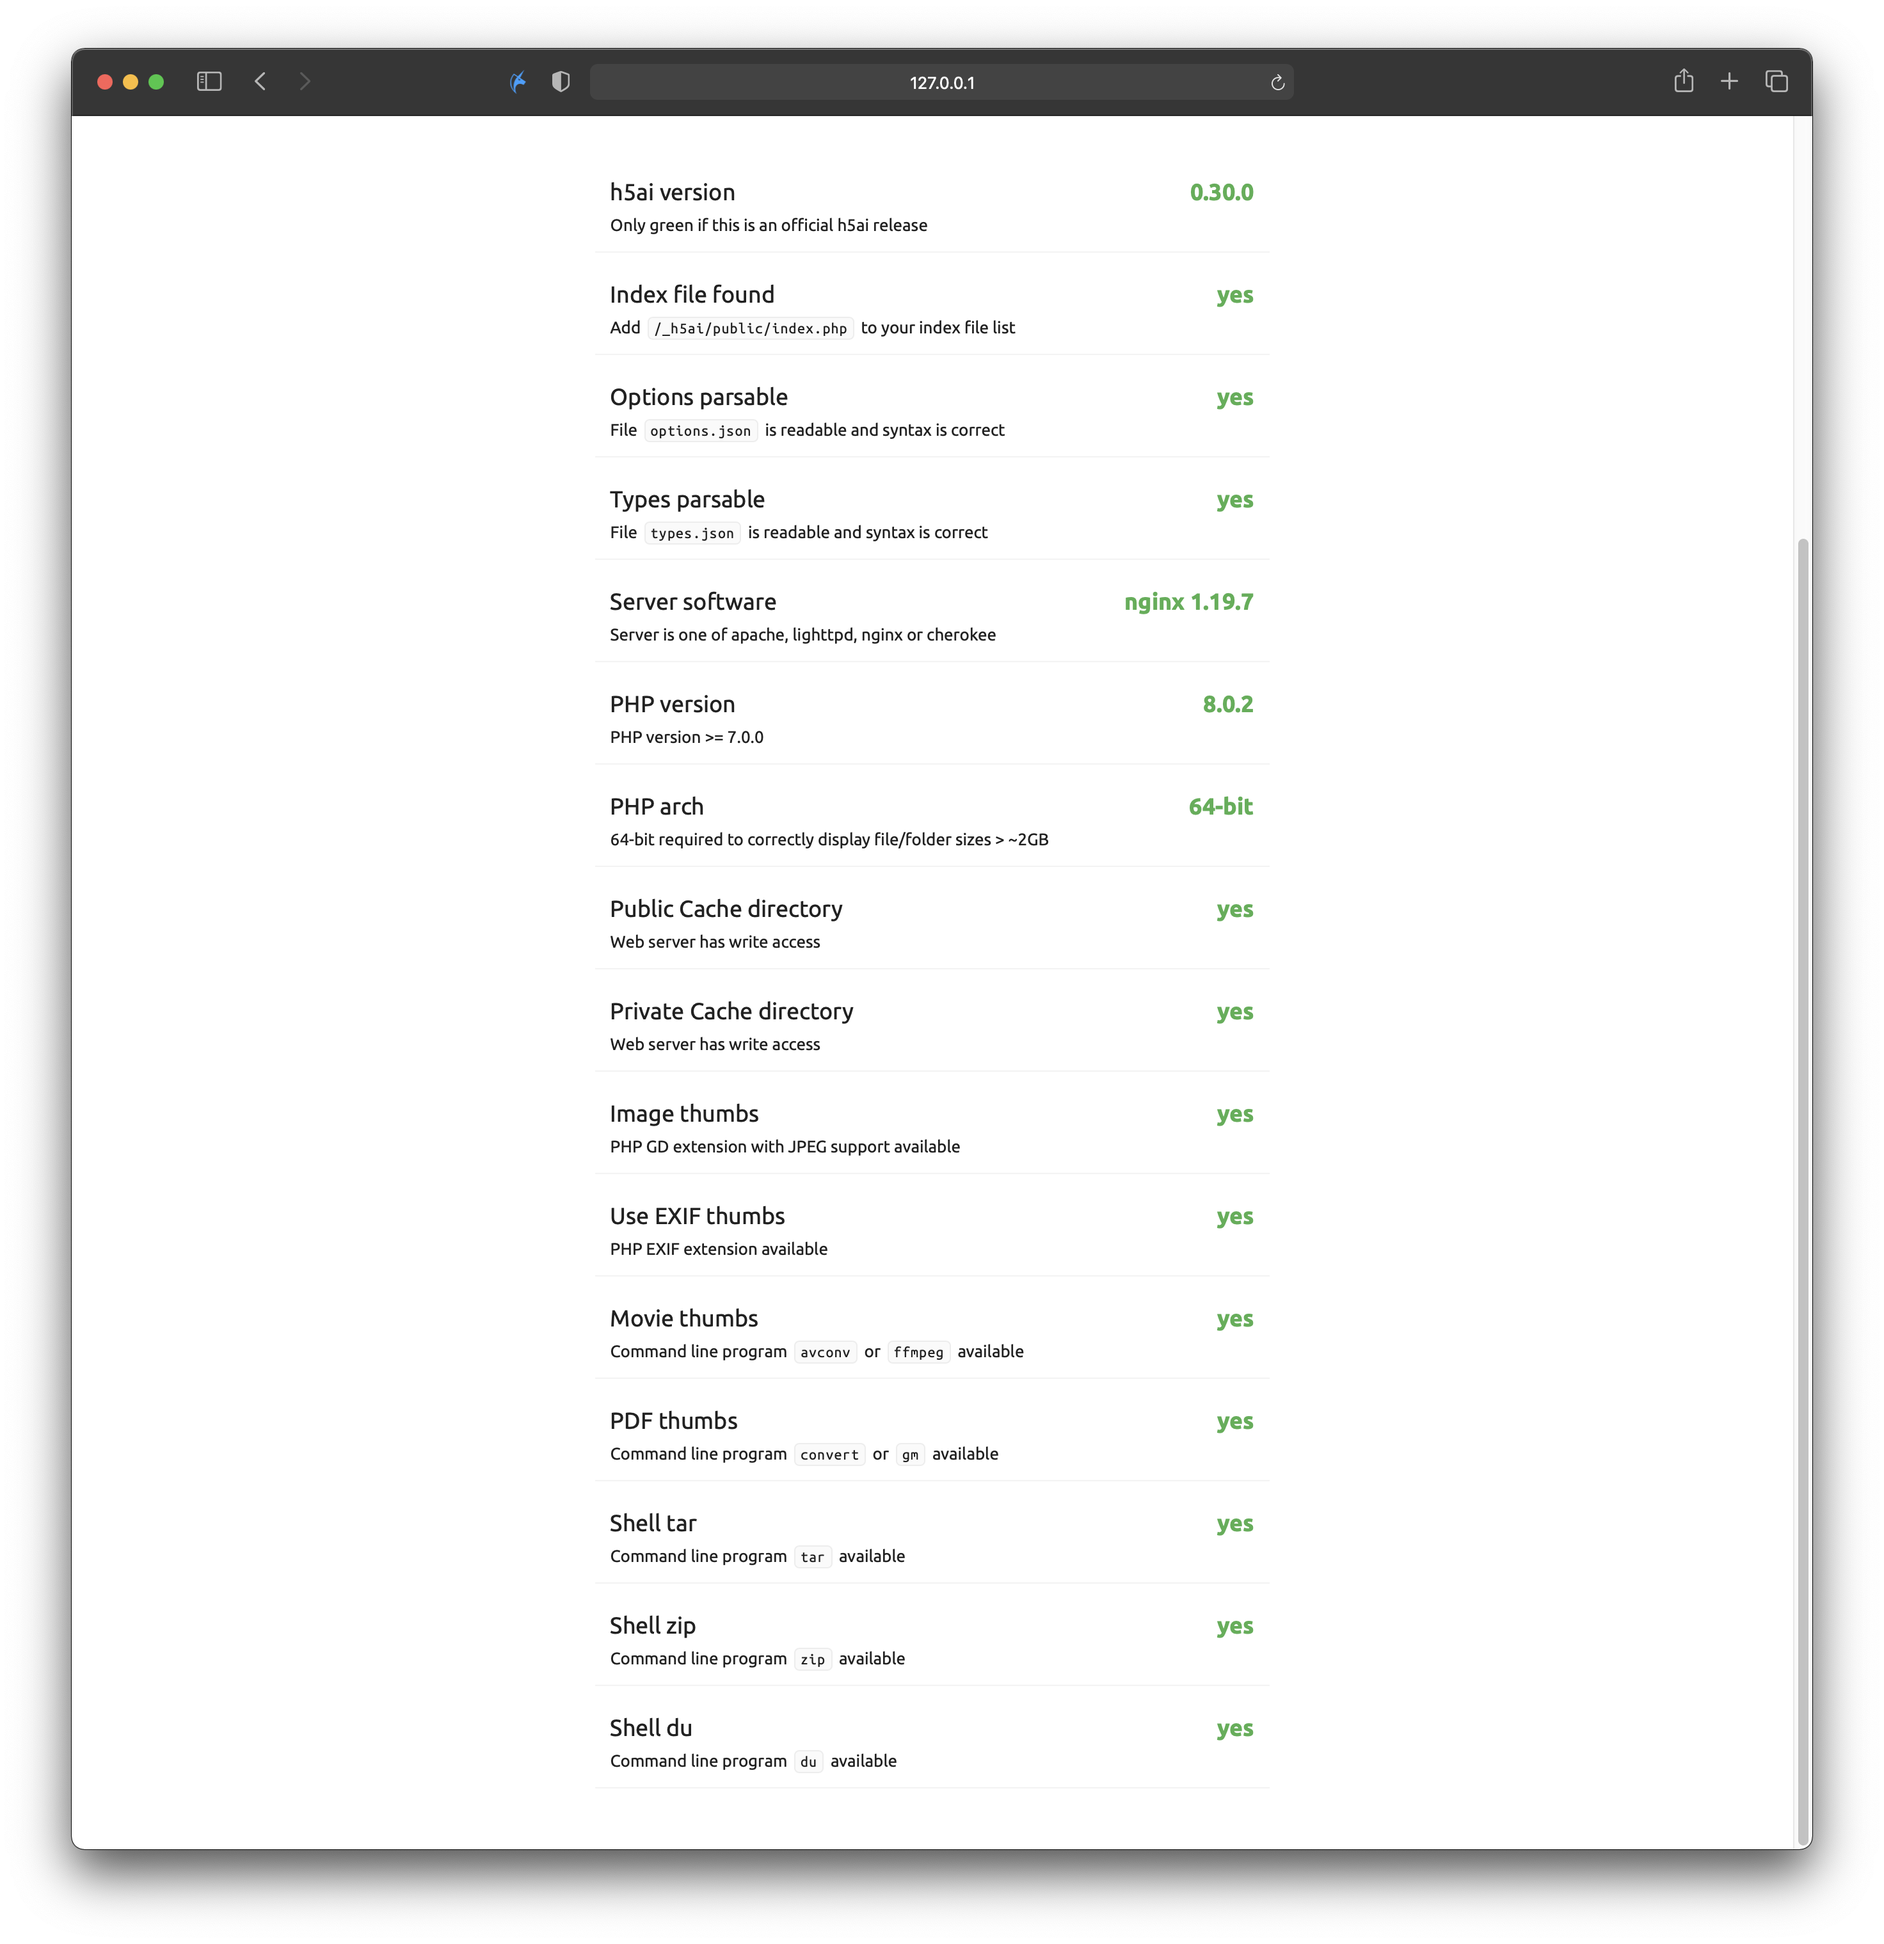
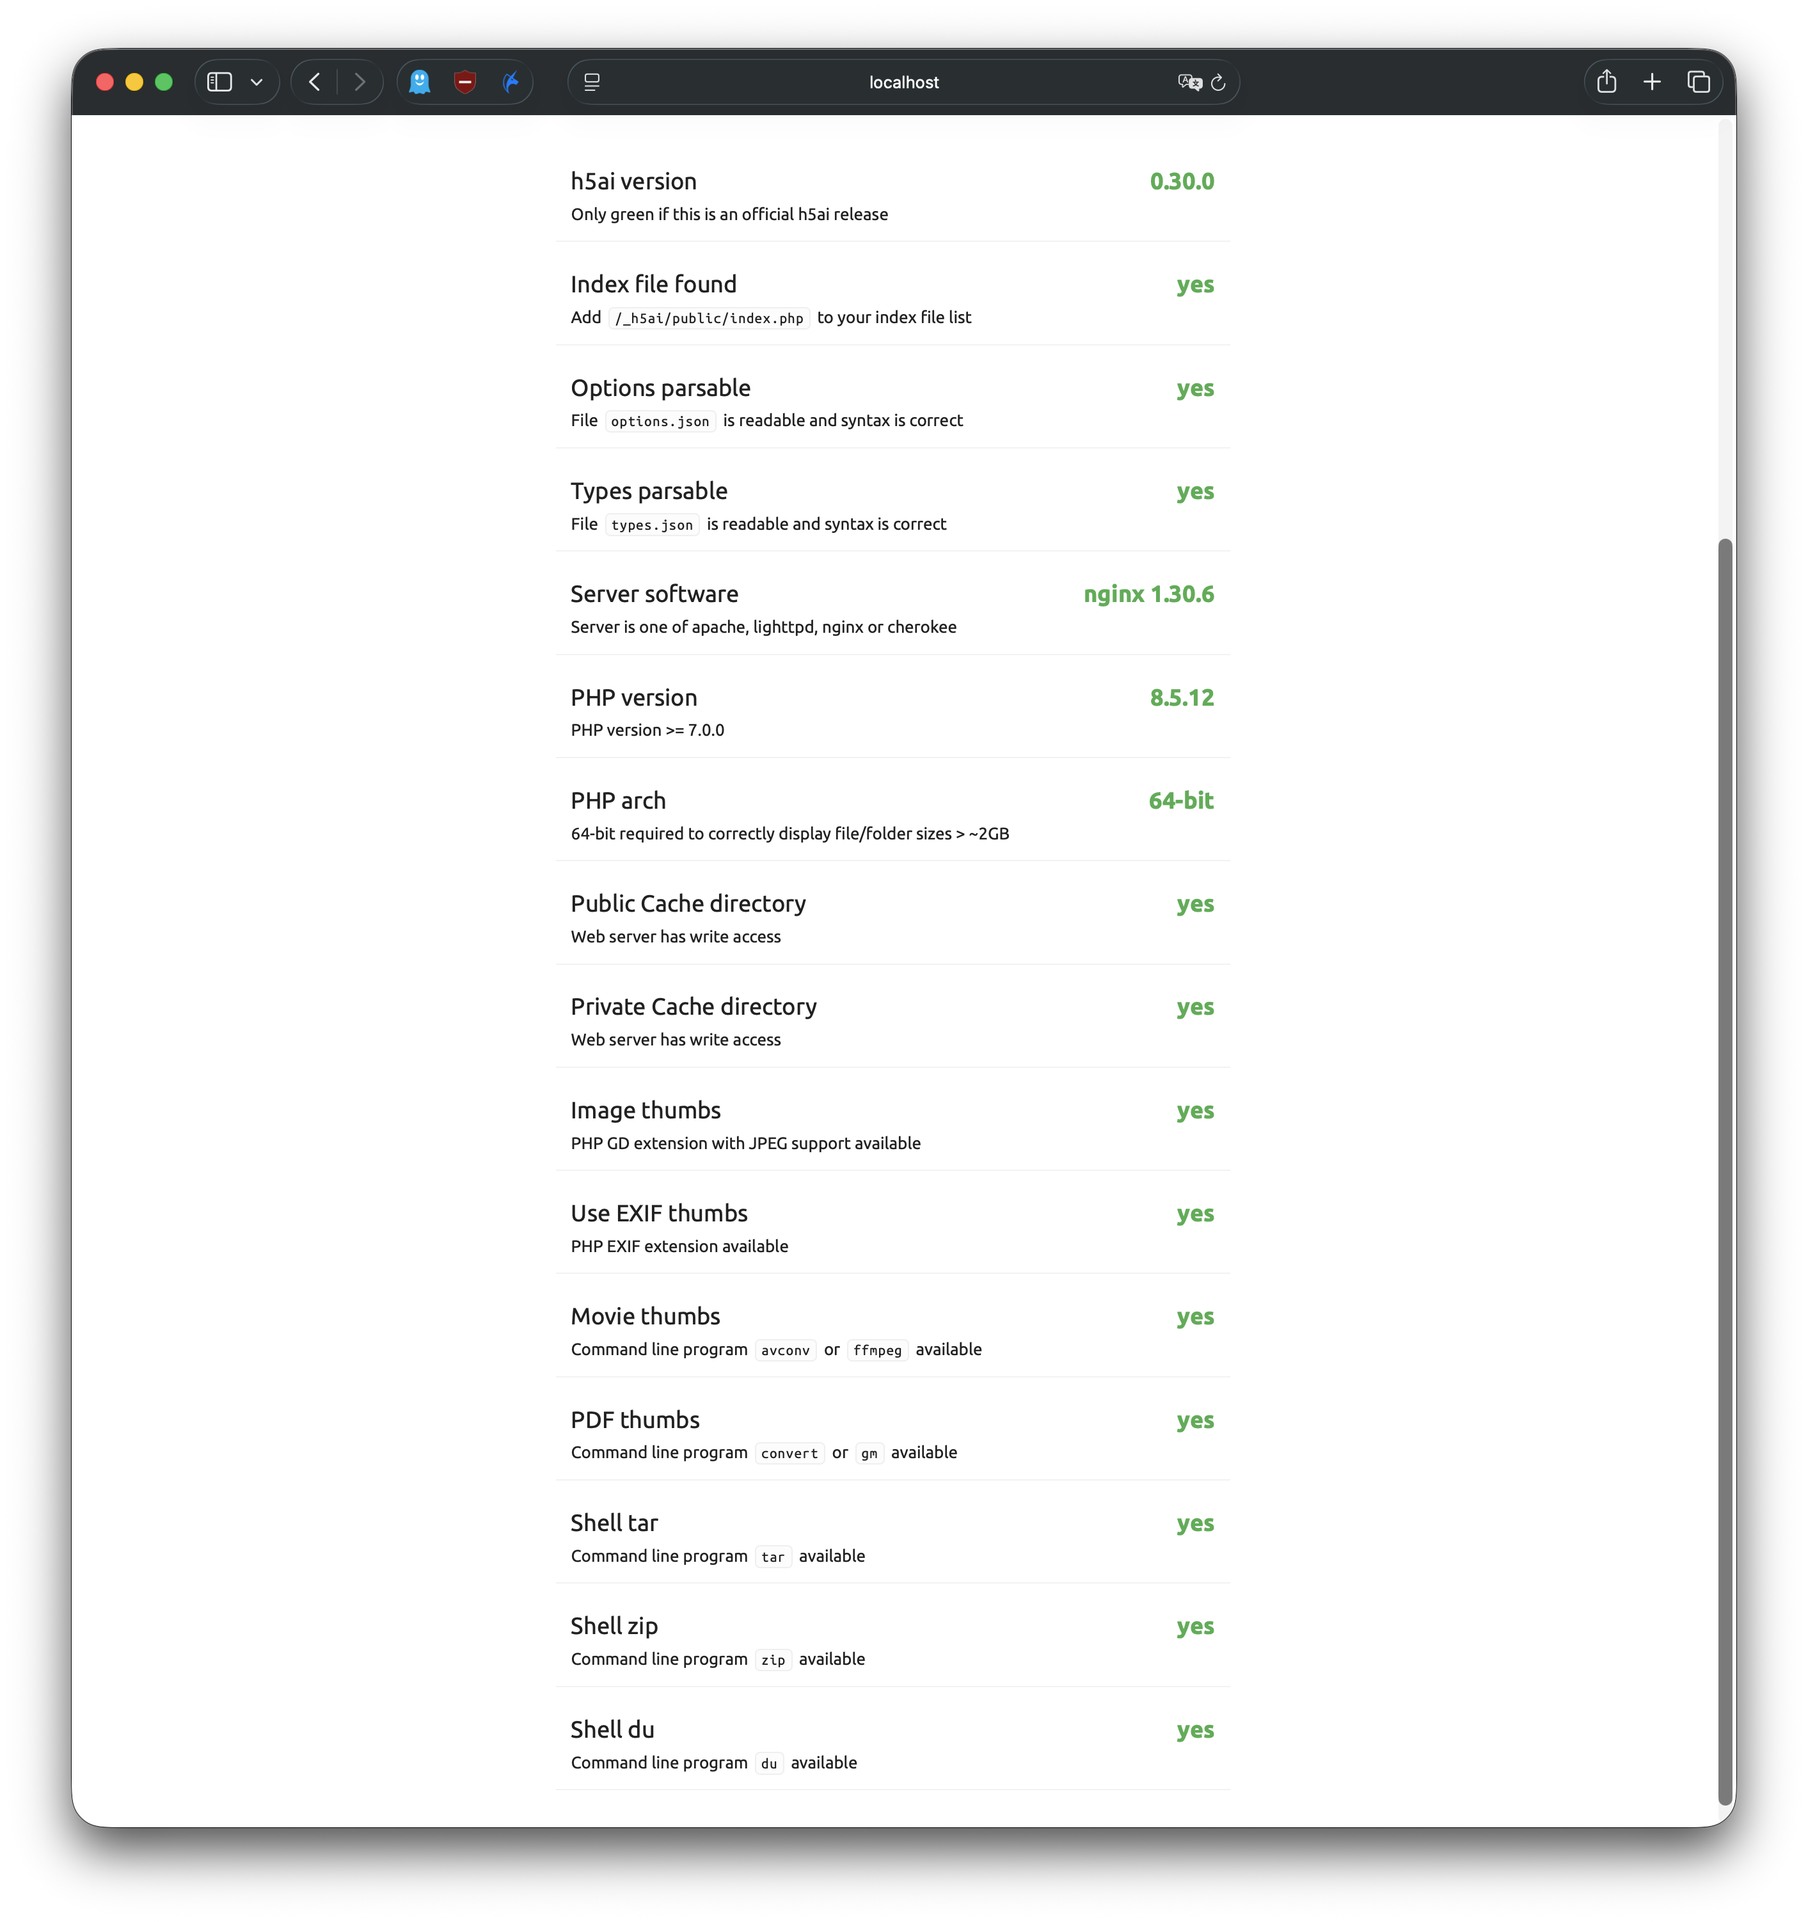
README,docs: Update runtime versions and screenshots
The README still lists Alpine 3.19, Nginx 1.27 and PHP 8.2, and the
workflow status badge has a malformed query string.

Update the package versions and replace the feature and OPcache
screenshots. Note the PHP 8.5.12 security requirement, the JIT mode,
the container tests run before publishing, and the PHP configuration
path change for users updating from the PHP 8.2 image. Fix the badge
query and the thumbnail description.

diff --git a/README.md b/README.md
@@ -1,7 +1,7 @@
 # docker-h5ai
 
 ![](https://img.shields.io/badge/multiarch-amd64(x86__64)%2C%20arm64%2C%20armv7%2C%20armv6-lightgrey?style=flat-square)
-![](https://img.shields.io/github/actions/workflow/status/awesometic/docker-h5ai/buildx.yml?branch=master?style=flat-square)
+![](https://img.shields.io/github/actions/workflow/status/awesometic/docker-h5ai/buildx.yml?branch=master&style=flat-square)
 
 ![](https://img.shields.io/docker/image-size/awesometic/h5ai/latest?style=flat-square)
 ![](https://img.shields.io/docker/pulls/awesometic/h5ai?style=flat-square)
@@ -25,9 +25,9 @@ And I do choose Nginx-Alpine to get the benefits from some tweaks of Nginx versi
 
 So this is composed of,
 
-* Alpine Linux 3.19
-* Nginx 1.27.0
-* PHP 8.2.20
+* Alpine Linux 3.24
+* Nginx 1.30.6
+* PHP 8.5.12 or newer
 
 with,
 
@@ -35,21 +35,25 @@ with,
 
 And to gather all of these into one together I use supervisor that manages all of these processes.
 
+PHP 8.5.12 or newer is required because it includes the fixes from the [October 21, 2026 PHP security release](https://www.php.net/archive/2026.php#2026-10-21-5).
+
 ### All functions work
 
 ![all functions work](docs/docker-h5ai-functions.png)
-h5ai supports extensional functions such as showing thumnails of audio and video, caching for better speed, etc. This image activates all of those functions.
+h5ai supports extensional functions such as showing thumbnails of images and videos, caching for better speed, packaged downloads, etc. This image activates all of those functions.
 
 ### PHP 8 JIT enabled
 
 ![jit enabled](docs/docker-h5ai-php-jit.png)
-JIT compiler that is introduced in PHP 8 is enabled by default.
+JIT compiler that is introduced in PHP 8 is enabled by default. It uses the tracing mode with a 100 MB buffer, on top of the OPcache that is built into PHP 8.5.
 
 ### Supports multiple architectures
 
 It builds from Github Actions for supporting multiple architectures such as AMD64(x86_64) and ARM64, ARMv7, ARMv6.
 
 So that you can use this on most computers supporting Docker.
+
+Before publishing, every architecture runs a container smoke test that checks file serving, thumbnails, downloads, authentication and configuration reuse. See [tests/README.md](tests/README.md) for what it covers and how to run it locally.
 
 ## How can I use this
 
@@ -193,6 +197,8 @@ drwxr-xr-x 2 root root 4.0K Dec 14  2018 nginx
 But since I don't know how much the users edit their h5ai files like layout or style, it won't make backups for all of the h5ai related files. So it depends on your caution.
 
 If you have any good idea, please let me know. 😀
+
+**When updating from the PHP 8.2 image**, the PHP configuration directory has moved from `/etc/php82` to `/etc/php85`. If you mounted your own PHP settings, update their paths.
 
 ## Use with HTTPS (SSL)
 
